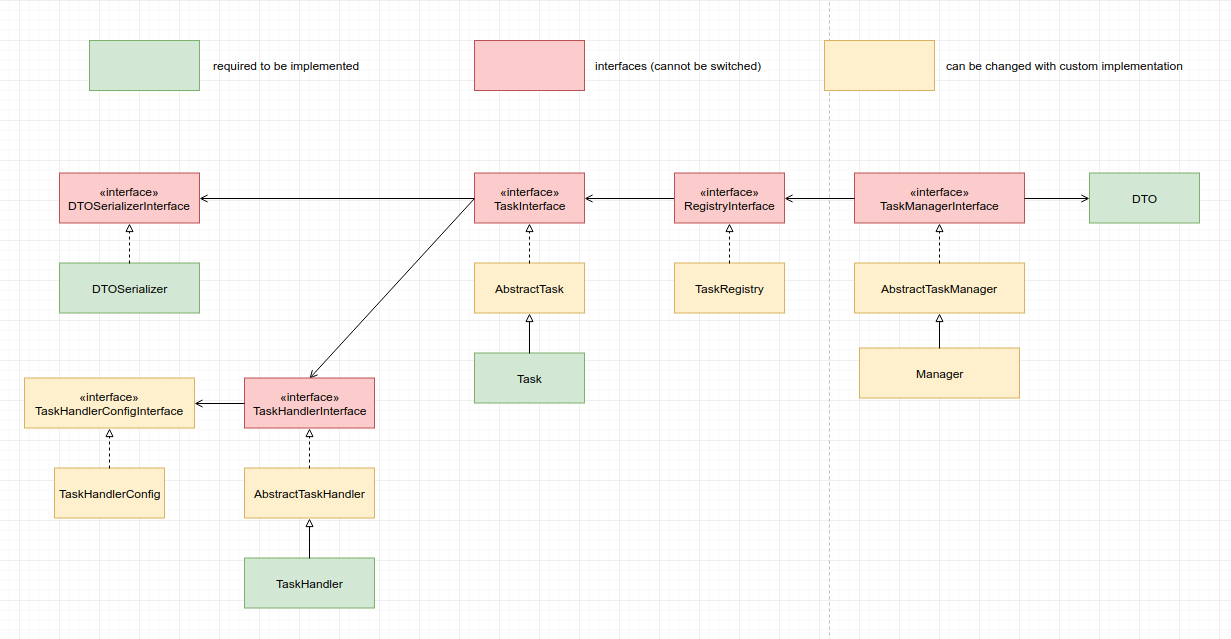
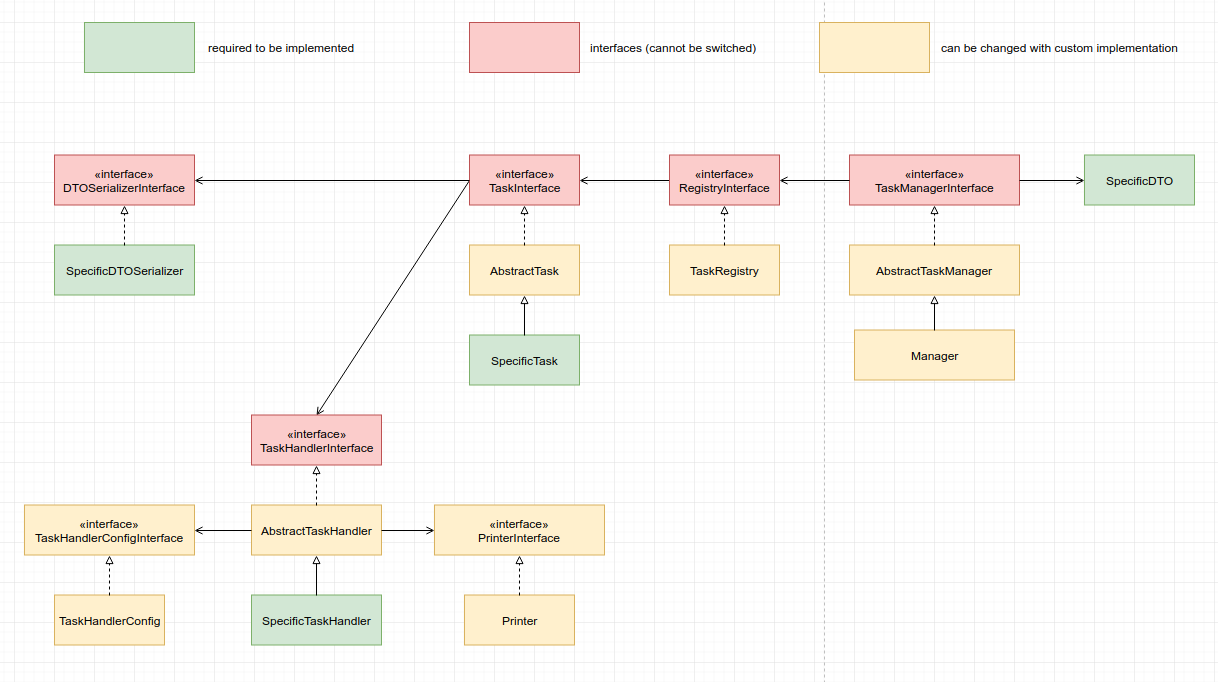
removed task handler interface dependencies

diff --git a/Tasks/AbstractTaskHandler.php b/Tasks/AbstractTaskHandler.php
@@ -11,7 +11,12 @@ abstract class AbstractTaskHandler implements TaskHandlerInterface
     /**
      * @var TaskHandlerConfigInterface
      */
-    protected $config;
+    private $config;
+
+    /**
+     * @var PrinterInterface
+     */
+    private $printer;
 
     public function shouldBeExecuted(): bool
     {
@@ -31,7 +36,7 @@ abstract class AbstractTaskHandler implements TaskHandlerInterface
     public function printOutput(string $message): void
     {
         if($this->getConfig()->isVerboseMode()) {
-            echo $message.PHP_EOL;
+            $this->getPrinter()->print($message);
         }
     }
 
@@ -44,7 +49,7 @@ abstract class AbstractTaskHandler implements TaskHandlerInterface
         return $this->config;
     }
 
-    public function setConfig(TaskHandlerConfigInterface $config)
+    public function setConfig(TaskHandlerConfigInterface $config): void
     {
         $this->config = $config;
     }
@@ -57,6 +62,20 @@ abstract class AbstractTaskHandler implements TaskHandlerInterface
     public function getDelay(): int
     {
         return $this->getConfig()->getDelay();
+    }
+
+    public function getPrinter(): PrinterInterface
+    {
+        if (!$this->printer) {
+            $this->printer = new Printer();
+        }
+
+        return $this->printer;
+    }
+
+    public function setPrinter(PrinterInterface $printer): void
+    {
+        $this->printer = $printer;
     }
 
 }

diff --git a/Tasks/TaskInterface.php b/Tasks/TaskInterface.php
@@ -6,8 +6,8 @@ interface TaskInterface
 {
     public function getQueueName(): string;
     public function getHandler(): TaskHandlerInterface;
-    public function setHandler(TaskHandlerInterface $handler);
+    public function setHandler(TaskHandlerInterface $handler): void;
     public function getDTOSerializer(): DTOSerializerInterface;
-    public function setDTOSerializer(DTOSerializerInterface $serializer);
+    public function setDTOSerializer(DTOSerializerInterface $serializer): void;
 
 }

diff --git a/Tasks/AbstractTask.php b/Tasks/AbstractTask.php
@@ -34,12 +34,12 @@ abstract class AbstractTask implements TaskInterface
 
     }
 
-    public function setHandler(TaskHandlerInterface $handler)
+    public function setHandler(TaskHandlerInterface $handler): void
     {
         $this->handler = $handler;
     }
 
-    public function setDTOSerializer(DTOSerializerInterface $serializer)
+    public function setDTOSerializer(DTOSerializerInterface $serializer): void
     {
         $this->dtoSerializer = $serializer;
     }

diff --git a/Tasks/TaskHandlerConfigInterface.php b/Tasks/TaskHandlerConfigInterface.php
@@ -5,7 +5,7 @@ interface TaskHandlerConfigInterface
     public function setVerboseMode(bool $verboseMode): void;
     public function isVerboseMode(): bool;
 
-    public function setIterationsCount(int $iterCount): void;
+    public function setIterationsCount(int $iterationsCount): void;
     public function getIterationsCount(): int;
 
     public function setMaxAttemptsCount(int $attemptsCount);

diff --git a/Tasks/TaskHandlerInterface.php b/Tasks/TaskHandlerInterface.php
@@ -10,6 +10,4 @@ interface TaskHandlerInterface
     public function shouldRetry(?int $deathCount): bool;
     public function getDelay(): int;
 
-    public function getConfig(): TaskHandlerConfigInterface;
-    public function setConfig(TaskHandlerConfigInterface $config);
 }
